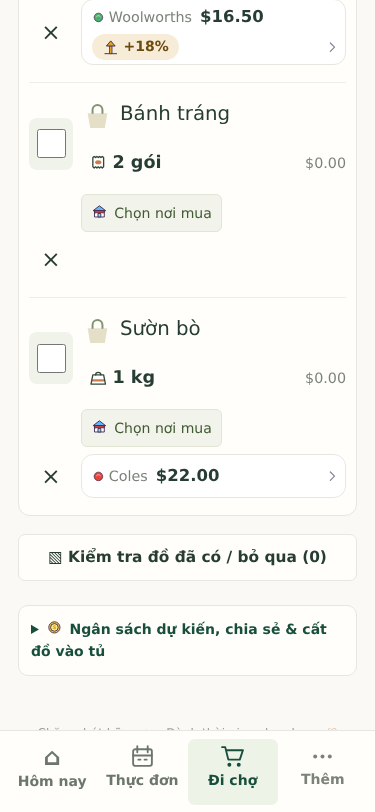
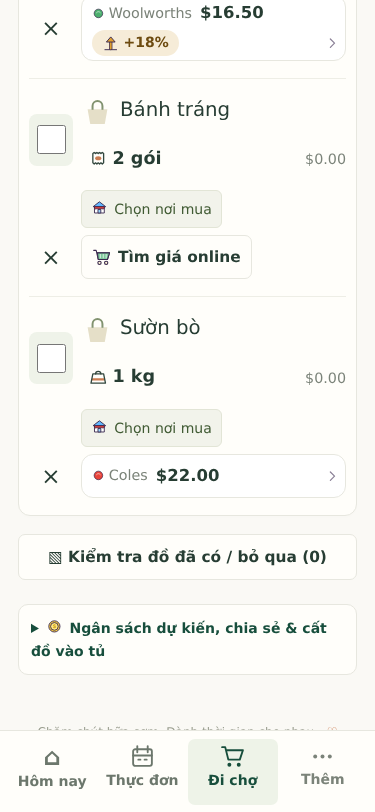
v1.7.8: a waiting "Tìm giá online" row turns into its price when prices arrive; evidence screenshots
Claude-Session: https://claude.ai/code/session_01VLFUk9ZfNFgmJWZe3PP9pp

diff --git a/src/frontend/price-scout-ui.ts b/src/frontend/price-scout-ui.ts
@@ -203,7 +203,7 @@ function scoutDecorateList(){
  // v1.7.8: online prices are national — the list shows them even before the family gives a postcode (no trip plan yet)
  const items=scoutData.state&&scoutLast?scoutLast.items:(()=>{try{return scoutBasket()}catch{return[]}})();
  // v1.7.5: online price under each row that has a catalogue item
- for(const it of items){const sel=it.key.startsWith('ing:')?`#main input[data-change="bought"][data-id="${CSS.escape(it.key.slice(4))}"]`:`#main input[data-change="extra-done"][data-id="${CSS.escape(it.key.slice(6))}"]`;const row=document.querySelector(sel)?.closest('.shop-row');if(!row||row.querySelector('.online-line,.online-find'))continue;
+ for(const it of items){const sel=it.key.startsWith('ing:')?`#main input[data-change="bought"][data-id="${CSS.escape(it.key.slice(4))}"]`:`#main input[data-change="extra-done"][data-id="${CSS.escape(it.key.slice(6))}"]`;const row=document.querySelector(sel)?.closest('.shop-row');if(!row||row.querySelector('.online-line'))continue;row.querySelector('.online-find')?.remove();/* a waiting row turns into its price when prices arrive */
   const want=it.itemId?null:scoutWantFor(it),id=it.itemId||want?.itemId;const html=id?scoutOnlineLine(id):'';
   if(html){row.classList.add('has-online');row.insertAdjacentHTML('beforeend',html);continue}
   if(!it.itemId&&scoutFindAllowed())row.insertAdjacentHTML('beforeend',scoutFindMarkup(it,want))}
